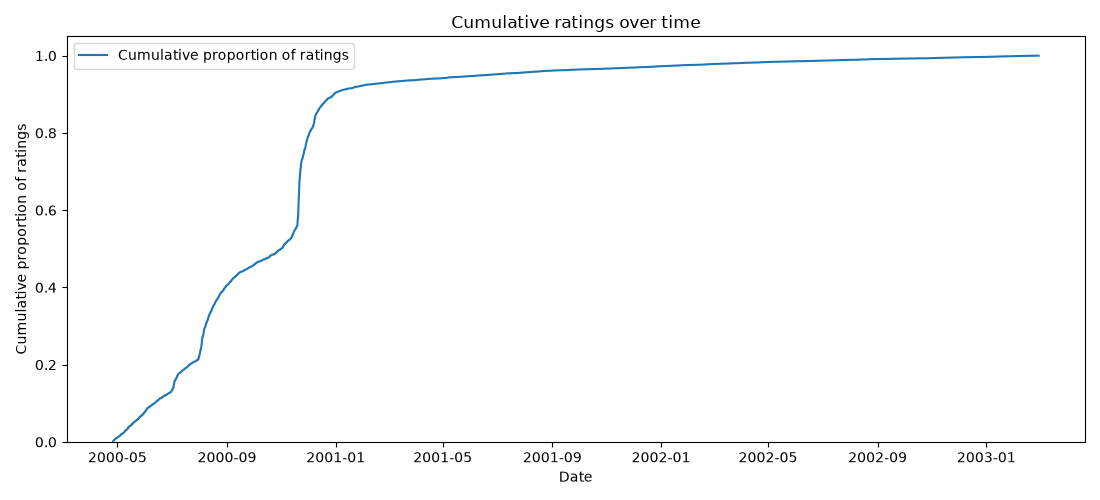
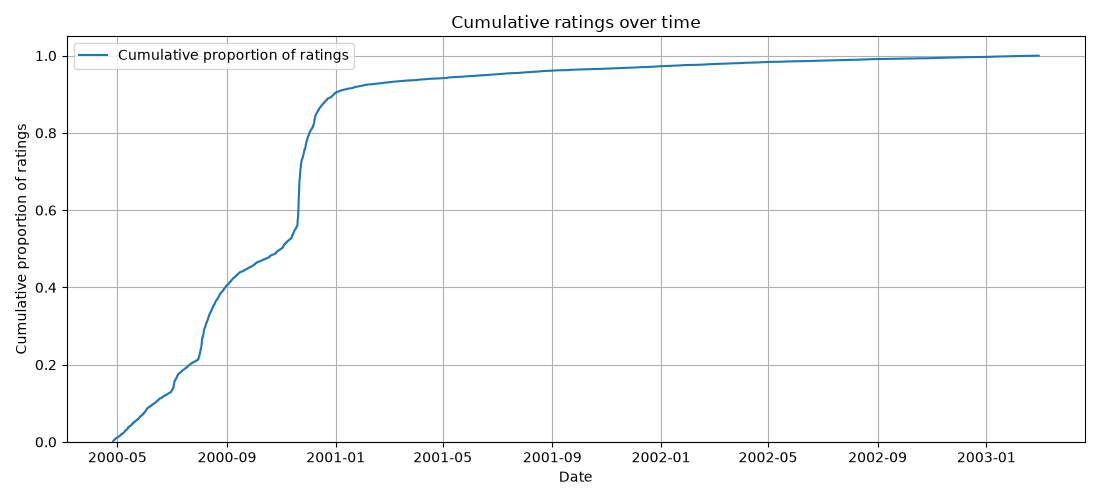
Updated plotting, added more statistics

diff --git a/plot_routines.py b/plot_routines.py
@@ -2,8 +2,57 @@
 from matplotlib import pyplot as plt
 from pathlib import Path
 
-def plot_ratings_count(rating_cumsum, plot_path= None):
-    ''' Plot relative cumulative ratings over time.'''
+def hist_user_item_count(user_counts, item_counts,
+                         semilog_y=False, plot_path=None):
+    '''Plots histograms of ratings per user and per movie.'''
+    fig, axes = plt.subplots(2, 1, figsize=(9, 10))
+
+    # top : ratings per user
+    axes[0].hist(user_counts, bins=75, edgecolor="black")
+    axes[0].axvline(
+        user_counts.median(), linestyle="-", color="red",
+        label=f"Median = {user_counts.median():.1f}"
+    )
+    axes[0].axvline(
+        user_counts.mean(), linestyle="--", color="red",
+        label=f"Mean = {user_counts.mean():.1f}"
+    )
+    axes[0].set_xlabel("Number of ratings per user")
+    axes[0].set_ylabel("Number of users")
+    axes[0].set_title("Distribution of ratings per user")
+    axes[0].set_xlim(left=0)
+    axes[0].legend()
+
+    # bottom: ratings per movie
+    axes[1].hist(item_counts, bins=75, edgecolor="black")
+    axes[1].axvline(
+        item_counts.median(), linestyle="-", color="red",
+        label=f"Median = {item_counts.median():.1f}"
+    )
+    axes[1].axvline(
+        item_counts.mean(), linestyle="--", color="red",
+        label=f"Mean = {item_counts.mean():.1f}"
+    )
+    axes[1].set_xlabel("Number of ratings per movie")
+    axes[1].set_ylabel("Number of movies")
+    axes[1].set_title("Distribution of ratings per movie")
+    axes[1].set_xlim(left=0)
+    axes[1].legend()
+
+    if semilog_y:
+        for ax in axes:
+            ax.set_yscale("log")
+    for ax in axes:
+        ax.grid()
+    fig.tight_layout()
+    if plot_path is not None:
+        fig.savefig(plot_path / "hist_user_item_count.png")
+        plt.close(fig)
+    else:
+        plt.show()
+
+def plot_cum_ratings(rating_cumsum, plot_path= None):
+    ''' Plot cumulative ratings (scaled to 0-1 interval) over time.'''
     plt.figure(figsize=(11, 5))
     plt.plot(rating_cumsum.index, rating_cumsum.values,
             label="Cumulative proportion of ratings")
@@ -12,55 +61,15 @@ def plot_ratings_count(rating_cumsum, plot_path= None):
     plt.title("Cumulative ratings over time")
     plt.ylim(0, 1.05)
     plt.legend()
+    plt.grid()
     plt.tight_layout()
     if plot_path is not None:
         plt.savefig(plot_path / "ratings_cum_count.png")
     else:
         plt.show()
 
-def hist_user_count(user_counts, semilog_y= False, plot_path= None):
-    ''' Plots histogram: number of ratings per user. '''
-    plt.figure(figsize=(9, 5))
-    plt.hist(user_counts, bins=50, edgecolor="black")
-    plt.axvline(user_counts.median(), linestyle="--",
-                label=f"Median = {user_counts.median():.1f}")
-    plt.axvline(user_counts.mean(), linestyle="-.",
-                label=f"Mean = {user_counts.mean():.1f}")
-    plt.xlabel("Number of ratings per user")
-    plt.ylabel("Number of users")
-    plt.title("Distribution of ratings per user")
-    plt.legend()
-    if semilog_y:
-        plt.yscale("log")
-    plt.tight_layout()
-    if plot_path is not None:
-        plt.savefig(plot_path / "hist_user_count.png")
-    else:
-        plt.show()
-
-def hist_item_count(item_counts, semilog_y= False, plot_path= None):
-    ''' Plot histogram: number of ratings per movie. '''
-    plt.figure(figsize=(9, 5))
-
-    plt.hist(item_counts, bins=50, edgecolor="black")
-    plt.axvline(item_counts.median(), linestyle="--",
-                label=f"Median = {item_counts.median():.1f}")
-    plt.axvline(item_counts.mean(), linestyle="-.",
-                label=f"Mean = {item_counts.mean():.1f}")
-    plt.xlabel("Number of ratings per movie")
-    plt.ylabel("Number of movies")
-    plt.title("Distribution of ratings per movie")
-    plt.legend()
-    if semilog_y:
-        plt.yscale("log")
-    plt.tight_layout()
-    if plot_path is not None:
-        plt.savefig(plot_path / "hist_item_count.png")
-    else:
-        plt.show()
-
 def hist_ratings(ratings, rating_counts, plot_path= None):
-    ''' Plot histogram of rating values. '''
+    ''' Plot histogram of rating distribution. '''
 
     plt.figure(figsize=(9, 5))
     plt.bar(rating_counts.index, rating_counts.values,
@@ -69,10 +78,11 @@ def hist_ratings(ratings, rating_counts, plot_path= None):
     #            label=f"Median = {ratings['Rating'].median():.1f}")
     #plt.axvline(ratings["Rating"].mean(), linestyle="-.",
     #            label=f"Mean = {ratings['Rating'].mean():.2f}")
+
     plt.xlabel("Rating")
     plt.ylabel("Number of ratings")
     plt.title("Distribution of rating values")
-    # lt.legend()
+    # plt.legend()
     plt.tight_layout()
     if plot_path is not None:
         plt.savefig(plot_path / "hist_ratings.png")

diff --git a/run_all.py b/run_all.py
@@ -6,12 +6,9 @@ from pathlib import Path
 import pandas as pd
 import numpy as np
 from matplotlib import pyplot as plt
+from pprint import pprint
 
-from plot_routines import (hist_user_count, hist_item_count, hist_ratings,
-                           plot_ratings_count) 
-
-# other libraries:
-# RecBole, Implicit, LightFM, Surprise, RecPack, Elliot, scikit-learn, PyTorch
+from plot_routines import (hist_ratings, plot_cum_ratings, hist_user_item_count) 
 
 # subfolder for plots:
 # (set to None to display plots on screen)
@@ -33,8 +30,6 @@ def main():
         movies = pd.read_csv(rel_path / "movies.dat", sep='::', header=None, engine='python', encoding='latin1')
     else: 
         raise FileNotFoundError(f"Subfolder '{rel_path}' was not found.") 
-    
-    # set column names:
     users.columns = ['UserID', 'Gender', 'Age', 'Occupation', 'Zip-code']
     ratings.columns = ['UserID', 'MovieID', 'Rating', 'Timestamp']
     movies.columns = ['MovieID', 'Title', 'Genres']
@@ -74,13 +69,6 @@ def main():
     # dates for the first and last ratings given:
     first_rating = ratings['Timestamp'].min()
     last_rating = ratings['Timestamp'].max()
-
-    print(f"* Number of users: {n_users}")
-    print(f"* Number of items: {n_items}")
-    print(f"* Number of interactions: {n_interact}")
-    print(f"* Density: {dens:.2f}%")
-    print(f"* Rating time span : {first_rating} - {last_rating}")
-
     # distribution of number of rankings / user
     user_counts = ratings['UserID'].value_counts()    
     # distribution of number of rankings / item
@@ -91,15 +79,31 @@ def main():
     # (scaled to 0-1 interval):
     timestamp_counts = ratings["Timestamp"].value_counts().sort_index()
     rating_cumsum = timestamp_counts.cumsum() / ratings["Timestamp"].count()
+    # quantiles:
+    quantiles = [0.05, 0.1, 0.25, 0.50, 0.75, 0.90, 0.95, 0.99, 0.999]
+    quantiles_df = pd.DataFrame({
+        "Users": user_counts.quantile(quantiles),
+        "Movies": item_counts.quantile(quantiles)
+    })
+    quantiles_df.index = [f"{q:.1%}" for q in quantiles]
+    quantiles_df.index.name = "quantile"
+
+    print(f"* Number of users: {n_users}")
+    print(f"* Mean number of ratings per user: {(user_counts.mean()):.2f}")
+    print(f"* Number of items (= movies): {n_items}")
+    print(f"* Mean number of ratings per movie: {(item_counts.mean()):.2f}")
+    print(f"* Number of interactions: {n_interact}")
+    print(f"* Density: {dens:.2f}%")
+    print(f"* Rating time span : {first_rating} - {last_rating}")
+    print(f"* Quantiles: ratings per user and per movie:\n")
+    pprint(quantiles_df)
 
     # plot results:
-
     if plot_path is not None:
         plot_path.mkdir(parents=True, exist_ok=True)
-    plot_ratings_count(rating_cumsum, plot_path= plot_path)
-    hist_user_count(user_counts, plot_path= plot_path)
-    hist_item_count(item_counts, plot_path= plot_path)
-    hist_ratings(ratings, rating_counts, plot_path= plot_path)
+    plot_cum_ratings(rating_cumsum, plot_path=plot_path)
+    hist_user_item_count(user_counts, item_counts, semilog_y=True, plot_path=plot_path)
+    hist_ratings(ratings, rating_counts, plot_path=plot_path)
 
 
 # ----------------------------------------------------------------------------------------------------------------------------
